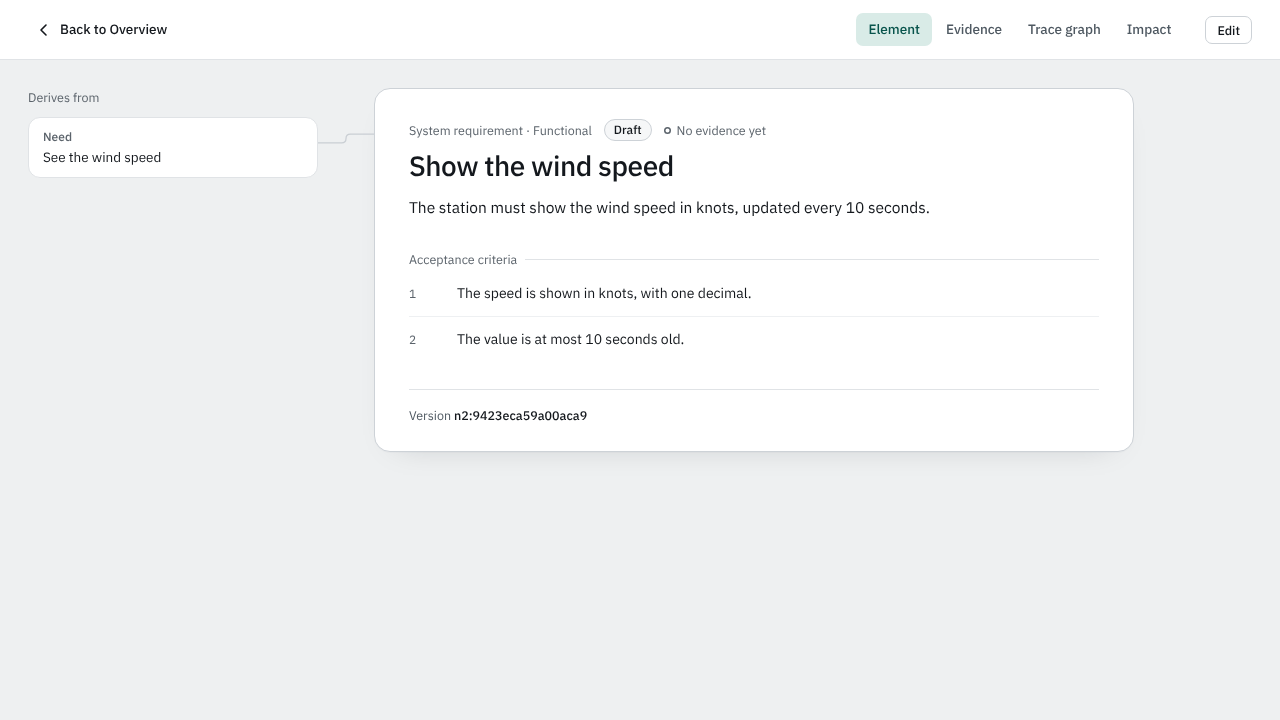
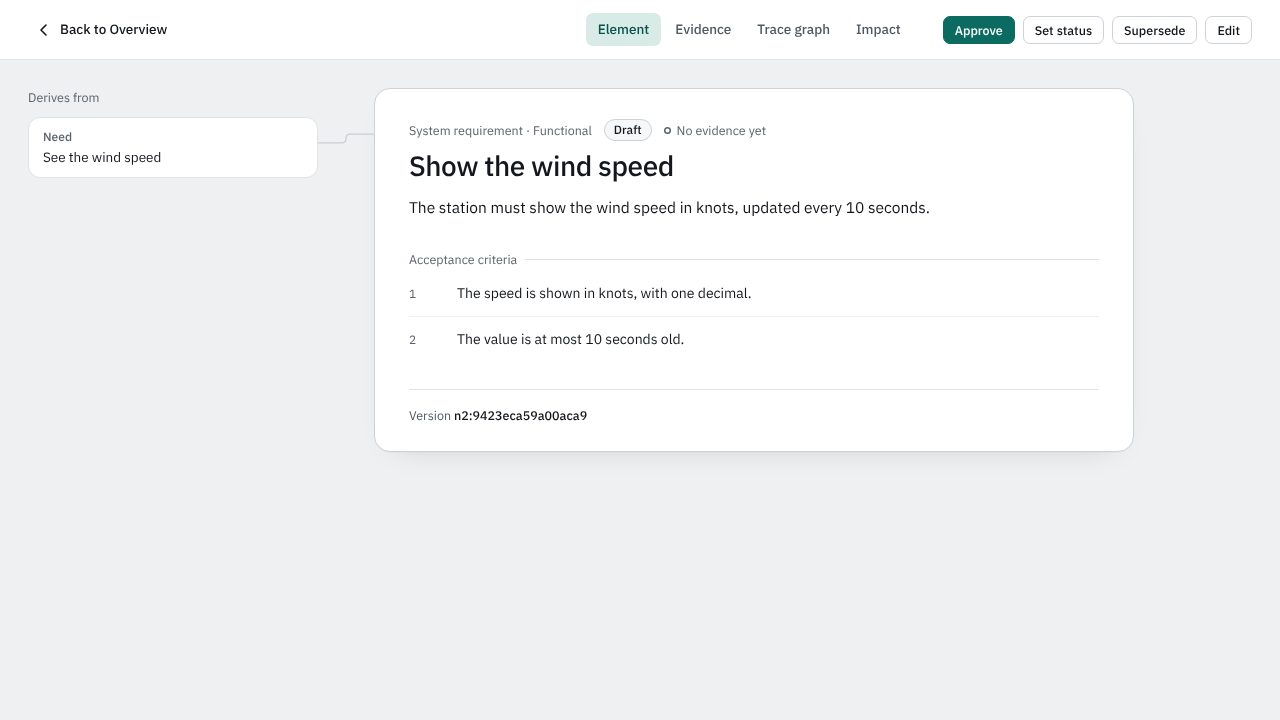
Web UI: set the status on the element page, also before the first baseline (#2430)
* fix(web): set the status on the element page, also before the first baseline

The overview sends a person to a draft with "Set Approved when the team
agrees", but only the changes since a baseline offered Approve, Set status
and Supersede, so a workspace without a baseline could not approve its
first requirements in the web UI. The element page now has the same three
decisions, each after its confirmation. Modal dialogs are centred again
(the base reset had removed their margin). The guide says where the status
is set.

Refs #2423

Claude-Session: https://claude.ai/code/session_01M3bZgnF4qiEVzMGumXYYep

* fix(web): offer Set status only where the type has another status

Review round of #2430: a glossary term (one status) showed a dead "Set
status". The package README names the decisions on the element page, and
the README animation shows its new top bar.

Refs #2423

Claude-Session: https://claude.ai/code/session_01M3bZgnF4qiEVzMGumXYYep

* docs: keep the web UI page within its word budget

Refs #2423

Claude-Session: https://claude.ai/code/session_01M3bZgnF4qiEVzMGumXYYep

---------

Changed region(s): [[0.5938, 0.0, 0.9375, 0.0611], [0.4375, 0.0, 0.5625, 0.0611]]

diff --git a/packages/web/test/status.spec.ts b/packages/web/test/status.spec.ts
@@ -1,0 +1,86 @@
+// The status on the element page, in a workspace without a baseline: the overview sends the person to a draft, and
+// its page sets the status after the confirmation (D-030), as the changes since a baseline do. These tests write
+// the workspace, so they run on one of their own (a worker of its own); it has no baseline.
+import type { Ui } from "./fixtures.js";
+import { expect, test as shared } from "./fixtures.js";
+import { createWorkspace, runOn, startUi } from "./start-ui.js";
+
+const test = shared.extend<object, { ui: Ui }>({
+  ui: [
+    async ({ kind }, use) => {
+      const workspace = await createWorkspace(kind);
+      const server = await startUi(workspace.root);
+      await use({ server, root: workspace.root, run: runOn(workspace.root) });
+      await server.close();
+      await workspace.cleanup();
+    },
+    { scope: "worker" },
+  ],
+});
+// A workspace without a baseline.
+test.use({ kind: "no-identifier" });
+
+test("a draft from the overview is approved on its page before the first baseline", async ({
+  page,
+  open,
+  ui,
+}) => {
+  expect((await ui.run("baseline.list", {})).baselines).toHaveLength(0);
+  const mm = await ui.run("metamodel.get", {});
+  await open("/q/drafts");
+  const row = page.locator(".it").first();
+  const id = (await row.getAttribute("data-id")) ?? "";
+  await row.click();
+  const { element } = await ui.run("element.get", { ref: id });
+  const settled = (mm.types.find((t) => t.key === element.type)?.statuses ?? []).filter((s) => {
+    const d = mm.statuses.find((x) => x.key === s);
+    return d?.initial !== true && d?.invalid !== true;
+  });
+  expect(settled).toHaveLength(1);
+  const name = mm.statuses.find((s) => s.key === settled[0])?.name ?? "";
+  await page.locator(".topbar").getByRole("button", { name: "Approve" }).click();
+  const dialog = page.getByRole("dialog", { name: "Approve" });
+  await expect(dialog.locator(`li[data-id="${id}"]`)).toContainText(name);
+  // Cancel writes nothing.
+  await dialog.getByRole("button", { name: "Cancel" }).click();
+  await expect(dialog).toHaveCount(0);
+  expect((await ui.run("element.get", { ref: id })).element.status).toBe(element.status);
+  await page.locator(".topbar").getByRole("button", { name: "Approve" }).click();
+  await page
+    .getByRole("dialog")
+    .getByRole("button", { name: `Set 1 element to ${name}` })
+    .click();
+  await expect(page.locator("[data-flash]")).toContainText(`Set 1 element to ${name}.`);
+  expect((await ui.run("element.get", { ref: id })).element.status).toBe(settled[0]);
+  // The page shows the new status, and Approve is no longer offered.
+  await expect(page.locator(".card .kick")).toContainText(name);
+  await expect(page.locator(".topbar").getByRole("button", { name: "Approve" })).toHaveCount(0);
+});
+
+test("Set status on the element page sets the status chosen in the confirmation", async ({
+  page,
+  open,
+  ui,
+}) => {
+  const mm = await ui.run("metamodel.get", {});
+  const initial = mm.statuses.find((s) => s.initial === true)?.key ?? "";
+  await open("/q/drafts");
+  const row = page.locator(".it").first();
+  const id = (await row.getAttribute("data-id")) ?? "";
+  await row.click();
+  await page.locator(".topbar").getByRole("button", { name: "Set status" }).click();
+  const dialog = page.getByRole("dialog", { name: "Set status" });
+  const choice = await dialog
+    .locator("#dlg-status option")
+    .evaluateAll(
+      (options, skip) =>
+        options.map((o) => (o as HTMLOptionElement).value).find((v) => v !== "" && v !== skip),
+      initial,
+    );
+  expect(choice).toBeDefined();
+  await dialog.locator("#dlg-status").selectOption(choice ?? "");
+  const name = mm.statuses.find((s) => s.key === choice)?.name ?? "";
+  await dialog.getByRole("button", { name: `Set 1 element to ${name}` }).click();
+  await expect(page.locator("[data-flash]")).toContainText(`Set 1 element to ${name}.`);
+  expect((await ui.run("element.get", { ref: id })).element.status).toBe(choice);
+});

diff --git a/packages/web/src/areas/element.ts b/packages/web/src/areas/element.ts
@@ -1,6 +1,6 @@
-// The element page (`#/e/<identifier or short ID>`), read only: the element in its trace. What it points to on
-// the left, the element in the centre, what points to it on the right. The way back to the list it was opened
-// from stays in the top bar (`?from=<route>`).
+// The element page (`#/e/<identifier or short ID>`): the element in its trace, and the decisions on its status.
+// What it points to on the left, the element in the centre, what points to it on the right. The way back to the
+// list it was opened from stays in the top bar (`?from=<route>`).
 import "../css/element.css";
 import type {
   DataExportElement,
@@ -39,6 +39,7 @@ import type { Route } from "../router.js";
 import { addRoute, fromOf, hashOf, isCurrent, withFrom } from "../router.js";
 import { el, refOf, shownId, store, verificationOf, viewSelection } from "../store.js";
 import { backOf, elementTabs } from "../element-tabs.js";
+import { decisions, flashBox } from "./changes.js";
 
 type Neighbourhood = Pick<TraceNeighbourhoodOutput, "nodes" | "edges" | "total">;
 
@@ -518,18 +519,24 @@ async function render(root: HTMLElement, route: Route): Promise<void> {
           : h("span", { class: "crumb" }, el(firstPackage.id)?.title ?? firstPackage.title ?? ""),
         [
           elementTabs(e, "e", route.params.get("from")),
-          // The form of the edit area; the way back leads here.
+          // The decisions on its status, each after its confirmation as on the changes since a baseline, and the
+          // form of the edit area, whose way back leads here.
           h(
-            "a",
-            {
-              class: "btn sm edit-link",
-              href: `${hashOf("edit", refOf(e))}?from=${encodeURIComponent(route.hash)}`,
-            },
-            "Edit",
+            "span",
+            { class: "el-acts" },
+            decisions(el(e.id)),
+            h(
+              "a",
+              {
+                class: "btn sm edit-link",
+                href: `${hashOf("edit", refOf(e))}?from=${encodeURIComponent(route.hash)}`,
+              },
+              "Edit",
+            ),
           ),
         ],
       ),
-      h("main", { id: "main", class: "trace-wrap", tabindex: -1 }, trace),
+      h("main", { id: "main", class: "trace-wrap", tabindex: -1 }, flashBox(route), trace),
     ),
     refOf(e),
   );

diff --git a/packages/web/src/areas/changes.ts b/packages/web/src/areas/changes.ts
@@ -190,7 +190,7 @@ const commonStatuses = (mm: Metamodel, types: readonly (string | undefined)[]): 
 /** What the last write did, shown on the page it was made from until the person goes elsewhere. */
 let flash: { readonly route: string; readonly text: string; readonly notes: readonly string[] } | undefined;
 
-const flashBox = (route: Route): HTMLElement | null => {
+export const flashBox = (route: Route): HTMLElement | null => {
   if (flash?.route !== route.hash) {
     flash = undefined;
     return null;
@@ -1234,8 +1234,11 @@ async function differenceBody(baseline: string, entry: Entry, route: Route): Pro
   }
 }
 
-/** The decisions on one element: approve, set its status, supersede it; none for a superseded one. */
-function decisions(e: ElementPart | undefined): HTMLButtonElement[] {
+/**
+ * The decisions on one element: approve, set its status, supersede it; none for a superseded one. The difference
+ * here and the element page offer them, so a status can be set before the first baseline too.
+ */
+export function decisions(e: ElementPart | undefined): HTMLButtonElement[] {
   if (e === undefined || isInvalid(store.mm, e.status)) {
     return [];
   }
@@ -1257,9 +1260,14 @@ function decisions(e: ElementPart | undefined): HTMLButtonElement[] {
           ),
         ]
       : []),
-    button("Set status", () => {
-      setStatusDialog([e.id]);
-    }),
+    // Only where the type has a status to choose besides the element's own.
+    ...(commonStatuses(store.mm, [e.type]).some((s) => s !== e.status)
+      ? [
+          button("Set status", () => {
+            setStatusDialog([e.id]);
+          }),
+        ]
+      : []),
     ...(statusesOf(store.mm, e.type).some((s) => isInvalid(store.mm, s))
       ? [
           button("Supersede", () => {

diff --git a/packages/web/src/css/element.css b/packages/web/src/css/element.css
@@ -36,6 +36,19 @@
   padding: 28px 28px 64px;
   min-height: calc(100vh - 60px);
 }
+/* The decisions on the status and Edit, at the end of the top bar. */
+.el-acts {
+  display: flex;
+  flex-wrap: wrap;
+  gap: 8px;
+  margin-left: 16px;
+}
+.el-acts .edit-link {
+  margin-left: 0;
+}
+.trace-wrap > .notice {
+  margin-bottom: 18px;
+}
 .form {
   max-width: 760px;
   margin: 0 auto;
@@ -324,6 +337,9 @@ svg.links path.warn {
   .topbar {
     padding: 8px 16px;
     gap: 8px;
+  }
+  .el-acts {
+    margin-left: 0;
   }
   .topbar .back span {
     max-width: 70vw;

diff --git a/packages/web/src/css/base.css b/packages/web/src/css/base.css
@@ -144,6 +144,10 @@
   box-sizing: border-box;
   margin: 0;
 }
+/* The reset above takes the browser's centring from a modal dialog; this gives it back. */
+dialog {
+  margin: auto;
+}
 html,
 body {
   height: 100%;

diff --git a/docs/guide/how-to/review-and-approve-a-requirement.md b/docs/guide/how-to/review-and-approve-a-requirement.md
@@ -9,13 +9,14 @@ ReqSeq never deletes an element. You supersede an approved one: it gets an inval
 
 ## Web UI
 
-The web UI sets a status only on **Changes since**, named after the baseline, so a workspace needs a baseline first ([Take a baseline](/how-to/take-a-baseline/)); before it, use the CLI, the API or MCP.
+The web UI sets a status on an element's page and on **Changes since**, named after the baseline. Each writes only after a confirmation that names the elements and the status.
 
-1. Open **Changes since** in the rail and click an element: its difference shows word by word, with **Approve**, **Set status** and **Supersede**. Each writes only after a confirmation that names the elements and the status.
-2. To decide on several at once, tick them in the list: **Approve**, **Set status** and **Change a property** act on all of them. **Change a property** first shows what ReqSeq would change, and writes nothing before you confirm.
-3. Before you change an element, its **Impact** tab lists the elements that trace to it.
-4. After the change, **Links to review** on the overview lists the requirements whose link to the need is outdated. Review each; where it is listed on **Changes since**, **Mark links as reviewed** on its difference clears the mark.
-5. To supersede an element, create its successor with **New element**. Then, where the old one is listed on **Changes since**, click **Supersede** on its difference, choose the status, and name the successor.
+1. Open an element, for example from **Drafts to decide** on the overview: its page has **Approve**, **Set status** and **Supersede**, also before the first baseline.
+2. Once there is a baseline ([Take a baseline](/how-to/take-a-baseline/)), open **Changes since** in the rail and click an element: its difference shows word by word, with the same three buttons.
+3. To decide on several at once, tick them in the list: **Approve**, **Set status** and **Change a property** act on all of them. **Change a property** first shows what ReqSeq would change, and writes nothing before you confirm.
+4. Before you change an element, its **Impact** tab lists the elements that trace to it.
+5. After the change, **Links to review** on the overview lists the requirements whose link to the need is outdated. Review each; where it is listed on **Changes since**, **Mark links as reviewed** on its difference clears the mark.
+6. To supersede an element, create its successor with **New element**. Then click **Supersede** on the old one's page or on its difference, choose the status, and name the successor.
 
 ## CLI
 

diff --git a/docs/guide/concepts/the-web-ui.md b/docs/guide/concepts/the-web-ui.md
@@ -47,7 +47,7 @@ An element's page shows its text, properties and acceptance criteria, its verifi
 
 ## Decide
 
-People set the status of an element, never ReqSeq. **Changes since** (with the name of the baseline) lists what changed since a baseline, word by word; there you approve one or several elements, set a status, supersede an element or change a property of many, each after a confirmation that names what is written ([Review and approve a requirement](/how-to/review-and-approve-a-requirement/)). **Check before a baseline** shows what ReqSeq reports before a baseline, and creates one.
+Only people set a status. An element's page has **Approve**, **Set status** and **Supersede**. **Changes since** (with the name of the baseline) lists what changed since a baseline, word by word, with the same buttons; there you also decide on several at once and change a property of many. Each writes after a confirmation that names what is written ([Review and approve a requirement](/how-to/review-and-approve-a-requirement/)). **Check before a baseline** shows what ReqSeq reports before a baseline, and creates one.
 
 ## Settings
 

diff --git a/packages/web/README.md b/packages/web/README.md
@@ -21,7 +21,7 @@ An area is one module in `src/areas/` with a style sheet of its own in `src/css/
 | Area | Routes |
 | --- | --- |
 | `overview.ts` | `#/q/overview`, `#/q/<queue>`: the overview with the head of each queue (`queues.ts`), and each queue |
-| `element.ts` | `#/e/<identifier or short ID>[?from=<route>]`: an element in its trace, read only |
+| `element.ts` | `#/e/<identifier or short ID>[?from=<route>]`: an element in its trace, with the decisions on its status (Approve, Set status, Supersede) |
 | `edit.ts` (with `edit-pick.ts`) | `#/new[?type=<type>]`, `#/edit/<identifier or short ID>[?from=<route>]`: create and edit an element of any type, its properties and relations |
 | `evidence.ts` | `#/evidence/<ref>`: an element's evidence per criterion, test case and view, and a form to record a check |
 | `trace.ts` | `#/graph/<ref>[?depth=&chain=&evidence=]`: the trace graph over several levels; `#/impact/<ref>`: what a change can affect |
